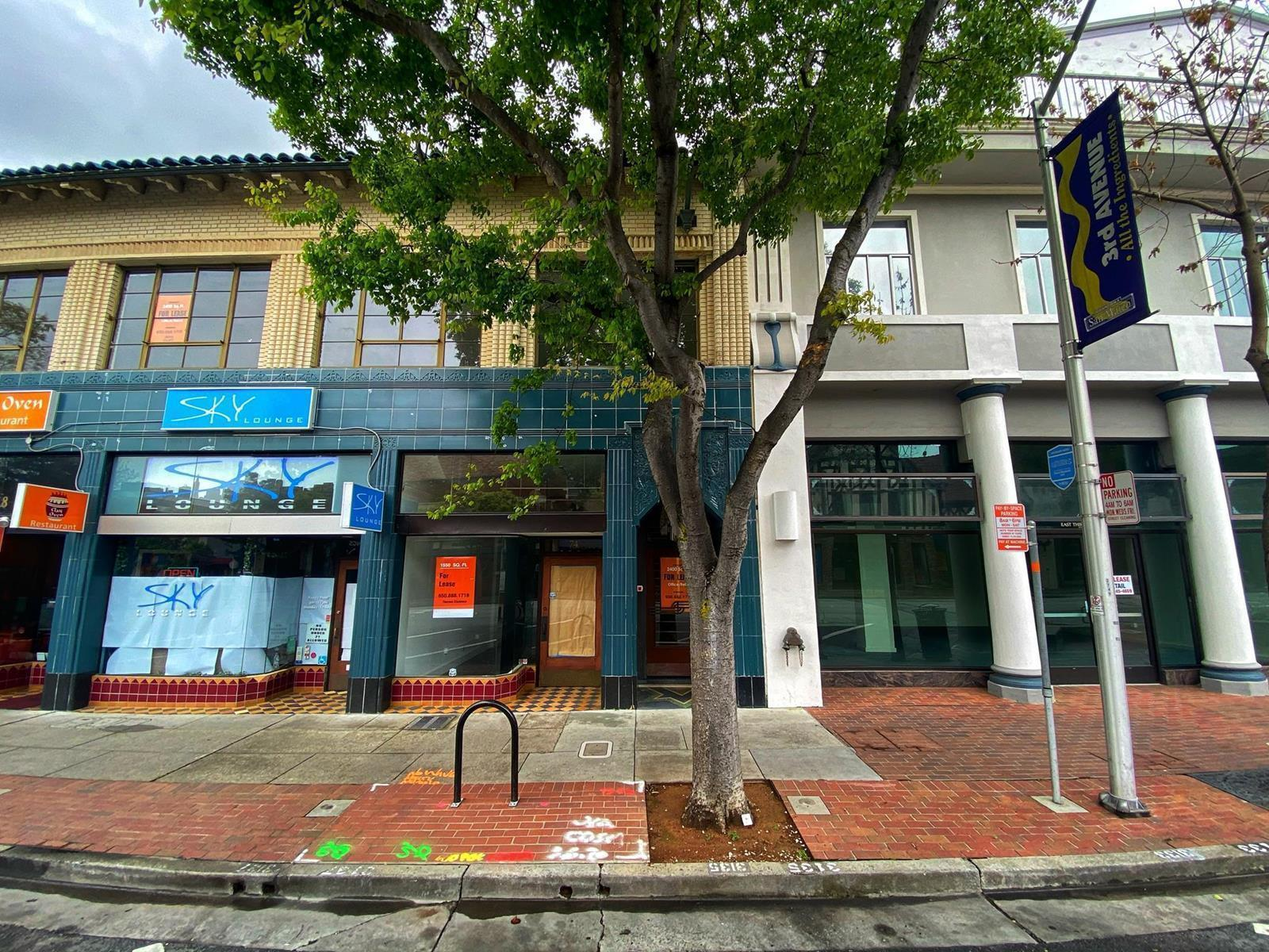
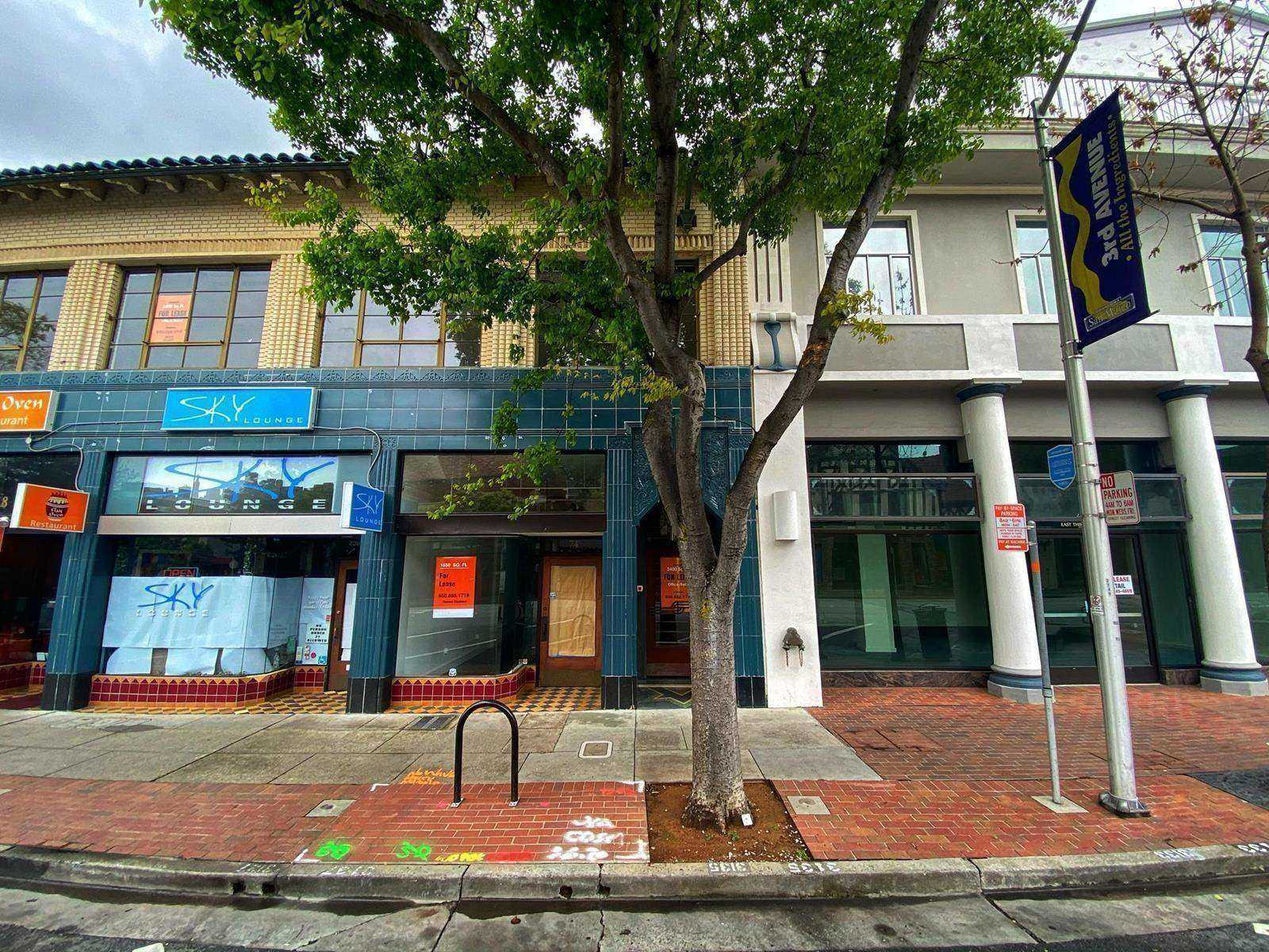
optimize images

diff --git a/content/posts/2020-10-16.md b/content/posts/2020-10-16.md
@@ -1,0 +1,28 @@
+---
+template: SinglePost
+titles: Establishing new standards & metrics
+status: Published
+date: 2020-10-16T11:11:00
+tags:
+ - data
+ - pandemic
+ - retail apocalypse
+featuredImage: '../images/2020-10-16.png'
+excerpt:
+ This year has introduced changes to digital commerce at a fast pace, and these developments are paving the way for even faster growth ahead. We are not in the midst of getting back to normal. New baselines are being established and the trajectories are steeper ahead for digital commerce.
+categories:
+  - category: Notes
+---
+Many charts look entirely broken this year. Economic data, retail trends, travel habits, and spending categories have all seen massive shifts, and a new baseline has yet to be set. There are wild fluctuations and it's unlikely that everything will fall into a consistent pattern until the pandemic is over.
+
+The ripple effects of the pandemic are still taking shape. There are some misplaced conceptions that normal patterns of life will return and this is all a buildup to 'getting back' to pre-pandemic normality. The changes over the last 7 months are setting the landscape for the next stages, where cities are de-prioritized, partial work-from-home becomes widespread, and office spcae is quickly reduced. Companies recognize the enormous savings of downsizing office space, and employees generally seem to prefer a split schedule of office/remote work.
+
+Ecommerce will continue to surge, and physical retail will be hurt. The past norms of ecommerce slowly increasing share of total retail sales have shifted. Digital commerce, in all its forms, will grow quickly and simply become _commerce_ as the distinction becomes meaningless. In Ark Invest's recent '[Bad Ideas Report](https://ark-invest.com/badideas/)', they project "US e-commerce will grow from $820 billion in 2019 to $2.7 trillion in 2025, pushing non-e-commerce retail down from $4.6 trillion to $3.9 trillion, a level last seen in the late 90s".
+
+The report goes on to put some numbers to the overabundance of retail space, which I've posted about previously
+
+> The US has more retail square footage per capita than any other developed nation, 5X that of the UK and 10X that of Germany.12 Moreover, even though retail sales per square foot in the US has been declining since the 1970s, retail square footage per capita has been increasing. If square feet were to stabilize at current levels, brick and mortar retail sales would continue to fall as e-commerce takes share. To push retail sales per square foot back to its peak, roughly $1 trillion worth of real estate would have to be repurposed by 2025.
+
+> We believe the brick and mortar retail apocalypse will continue to impact both equity and fixed income holders. ARK estimates that roughly $2 trillion in enterprise value is at risk in the public equity markets across the retail categories with heavy real estate footprints, as shown below.
+
+This year has introduced changes to digital commerce at a fast pace, and these developments are paving the way for even faster growth ahead. We are not in the midst of getting back to normal. New baselines are being established and the trajectories are steeper ahead for digital commerce.

diff --git a/content/posts/2020-10-15.md b/content/posts/2020-10-15.md
@@ -1,0 +1,29 @@
+---
+template: SinglePost
+title: Steamrolling ahead with little excitement
+status: Published
+date: 2020-10-15T11:11:00
+tags:
+ - amazon
+ - prime day
+ - big tech
+featuredImage: '../images/2020-10-15.png'
+localImage: '/media/2020-10-15.png'
+excerpt:
+  At one point, Amazon lead the way in ecommerce innovation. It's always been intended for customers with an intended purchase, rather than for browsing for enjoyment or discovery. There's more innovation happening to ecommerce off Amazon, where ecommerce continues to meld with content and audiences on a multitude of platforms. 
+categories:
+  - category: Notes
+---
+There are exciting innovations occurring in digital commerce. Much of the innovation is unseen by the masses, as Amazon and other big tech leaders no longer lead the way by dazzling with exciting new features. Rather, big tech is steamrolling ahead, expounding growth by delving into new markets, while looking to steamroll competition in existing markets.
+
+Big tech is getting bigger in midst of the pandemic because more people are moving to use the limited services available. There's no denying that Amazon and other big tech companies make great products and provide quality services. The innovations at this point are marginal. Products can come slightly faster, the catalog can grow larger, but the innovations are limited because there's no need or desire to do more.
+
+Marketpace Pulse, which follows the Amazon Marketplace closely, noted how [Prime Day will break records, but not because of new features](https://www.marketplacepulse.com/articles/uninspiring-record-breaking-prime-day-2020):
+
+> Thus it is telling to see Prime Day continue to grow despite not innovating on the user experience - it is important to notice the things Amazon chooses not to do.
+...
+> Prime Day is not indicative of any future trends in e-commerce. To many, it is the opposite of what they believe the future will look like. Prime Day is an event by the largest online retailer that attracts shoppers because it is the largest online retailer. In turn, Amazon reaches record sales, many third-party marketplace sellers double their daily sales volume, and some shoppers find great deals. It’s a win for everyone, except for other retailers that lose out on traffic.
+...
+> The best Prime Day deal is the one Amazon gets by having many of its Prime members coming to Amazon to check if there is a deal they like. If they don’t, there is a high chance they will buy something on Amazon anyway. That is why many more products get a sales lift than just those offering deals. Prime Day’s goal is to remind people to open the Amazon app.
+
+At one point, Amazon lead the way in ecommerce innovation. While the marketplace can grow, the site is not made for discovery or to delight customers. It's always been intended for customers with an intended purchase, rather than for browsing for enjoyment. There's more innovation happening to ecommerce off Amazon, where ecommerce continues to meld with content and audiences on a multitude of platforms.

diff --git a/content/posts/2020-10-14.md b/content/posts/2020-10-14.md
@@ -1,0 +1,24 @@
+---
+template: SinglePost
+title: 'GANksy - AI generated Banksy'
+status: Published
+date: 2020-10-14T11:11:00
+tags:
+ - digital assets
+ - banksy
+ - digital products
+ - pricing
+featuredImage: '../images/2020-10-14.png'
+localImage: '/media/2020-10-14.png'
+excerpt:
+  As of this writing, the price is up to £37, which means 36 of these GANksy pieces have been sold so far. The pricing model poses an interesting problem as the prices rise, where presumably the most desirable pieces are sold. Digital assets will be increasingly part of digital commerce and it's fun to see unusual implementations like this.
+categories:
+  - category: Notes
+---
+AI-generated art is being used by many artists, and the line between human-created and machine-created is getting murkier. Waxy.org posted about a new [digital art project titled GANksy](https://vole.wtf/ganksy/), which uses artificial intelligence to create original art based upon pieces by famed street artist Banksy.
+
+There were a total of 256 'masterpieces' created and each was made available for sale, with a starting price of 1£. The prices are set to increase with each purchase, with the final piece presumably priced at £256.
+
+> GANksy was born into the cloud in September 2020, then underwent a strenuous A.I. training regime using hundreds of street art photos for thousands of iterations to become the fully-formed artist we see today. All of GANksy’s works are original creations derived from its understanding of shape, form and texture. GANksy wants to be put into a robot body so it can spraypaint the entire planet.
+
+As of this writing, the price is up to £37, which means 36 of these GANksy pieces have been sold so far. The pricing model poses an interesting problem as the prices rise, where presumably the most desirable pieces are sold. Digital assets will be increasingly part of digital commerce and it's fun to see unusual implementations like this.

diff --git a/content/posts/2020-10-18.md b/content/posts/2020-10-18.md
@@ -1,0 +1,22 @@
+---
+template: SinglePost
+titles: When goods become virtual
+status: Published
+date: 2020-10-18T11:11:00
+tags:
+ - lehman brothers
+ - digital products
+ - digital assets
+featuredImage: '../images/2020-10-18.png'
+excerpt:
+ There's a huge new shift taking place now with digital assets that are even more ephemeral. Rather for standing for physical goods, digital assets are themselves the assets that hold value.
+categories:
+  - category: Notes
+---
+Before the pandemic hit, The Lehman Trilogy hit Broadway for a short stint in its United States Debut. Planet Money's Indicator podcast [discussed the play  in a recent episode](https://www.npr.org/podcasts/510325/the-indicator-from-planet-money). The play showcases the three Lehman brothers, who founded the infamous financial firm that became one of the larges firms in the world for well over a century, then ultimately collapsed in 2008.
+
+> Just before Broadway shut down, team Indicator saw The Lehman Trilogy, about the origin of Lehman Brothers. We talk with playwright Ben Power about the firm, the family and the consolation of history.
+
+As described in the podcast, the play covers how the company began as a store, accepted non-cash payments, and eventually 'invented' the concept of becoming a middleman. Notably, they begin by accepting and dealing with real goods and assets. Naturally, that becomes unsustainable as the size of the trades increased. Once the brothers began accepting paper rights assigning ownership of the goods, they were able to drastically increase the size of trades.
+
+There's a huge new shift taking place now with digital assets that are even more ephemeral. Rather for standing for physical goods, digital assets are themselves the assets that hold value.

diff --git a/content/posts/2020-10-17.md b/content/posts/2020-10-17.md
@@ -1,0 +1,24 @@
+---
+template: SinglePost
+title: Customer inflection points
+status: Published
+date: 2020-10-17T11:11:00
+tags:
+ - marketing  
+ - customer service
+ - quantum state
+featuredImage: '../images/2020-10-17.png'
+excerpt:
+ Customer inflection points provide a rare opportunity to create a lifelong fan. These points are often viewed as problems to be dealt with rather than the opportunities they are.
+categories:
+  - category: Notes
+---
+Long term customer relationships are bound to hit "fluctuation points". These are the times where a customer could end up becoming a customer for life, or feel betrayed by a brand.
+
+On a recent podcast, Seth Godin described this as the ['quantum state' of a customer](https://play.acast.com/s/akimbo/aquantumtheoryofcustomers). These arise at stressful points where the customer has a fixable problem, the brand has an opportunity to help, and the result will be enduring with ripple effects.
+
+In the podcast, Godin discusses an experience with an oven manufacturer whereby an expensive, vital item broke and the company had the opportunity to make it right. If they do so, Godin would be a customer for life and presumably even recommend the brand because of the exceptional support.
+
+The other option is to feel let down by both the product and the support. At that point, the brand is remembered for failing on two points and never recommended to others.
+
+Customer inflection points provide a rare opportunity to create a lifelong fan. These points are often viewed as problems to be dealt with rather than the opportunities they are.

diff --git a/content/posts/2020-10-19.md b/content/posts/2020-10-19.md
@@ -1,0 +1,26 @@
+---
+template: SinglePost
+titles: Establishing a blog schedule
+status: Published
+date: 2020-10-19T11:11:00
+tags:
+ - ecomloop
+ - blogging
+ - content marketing
+featuredImage: '../images/2020-10-19.png'
+excerpt:
+ Since starting this iteration of the ecomloop blog back in April, I've posted on a variety of topics all related to digital commerce. Much of the writing has been in response to the enormous shifts.
+categories:
+  - category: Notes
+---
+Since starting this iteration of the ecomloop blog back in April, I've posted on a variety of topics all related to digital commerce. Much of the writing has been in response to the enormous shifts
+
+- Monday - _ecomloop update_: updates on client & inhouse projects and developments
+- Tuesday - _tech tool_: highlight our favorite tools, apps, & services for digital commerce
+- Wednesday - _brainstorm ideas_: list ideas for a topic related to ecommerce
+- Thursday - _big tech trends_: discuss broad tech trends and ongoing changes in big tech
+- Friday - _question & answer_: answer a question (submitted or from online forums)
+- Saturday - _uncommon projects_: highlight a great intendent online business
+- Sunday - _future/prediction_: looking toward future, prediction about ecommerce
+
+The schedule may change. We'll see how it goes over the next few weeks and adjust as needed.
